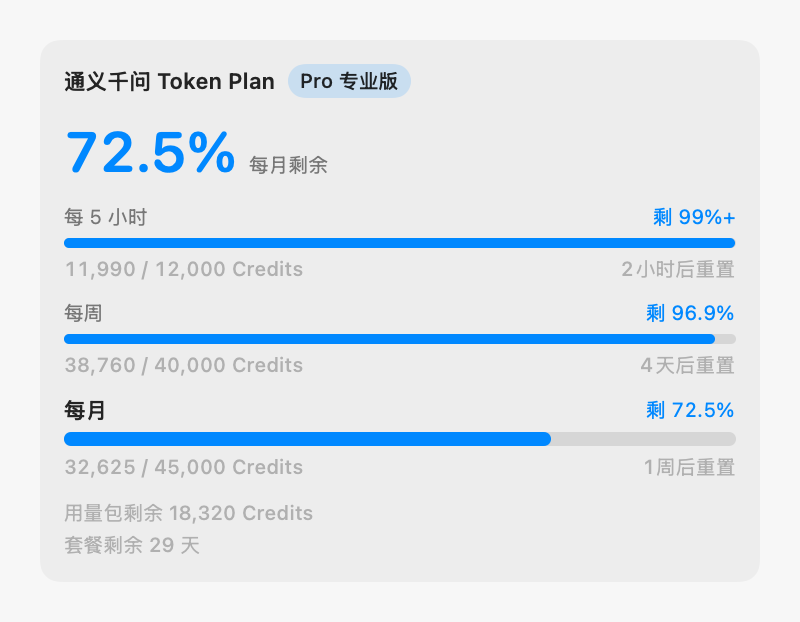
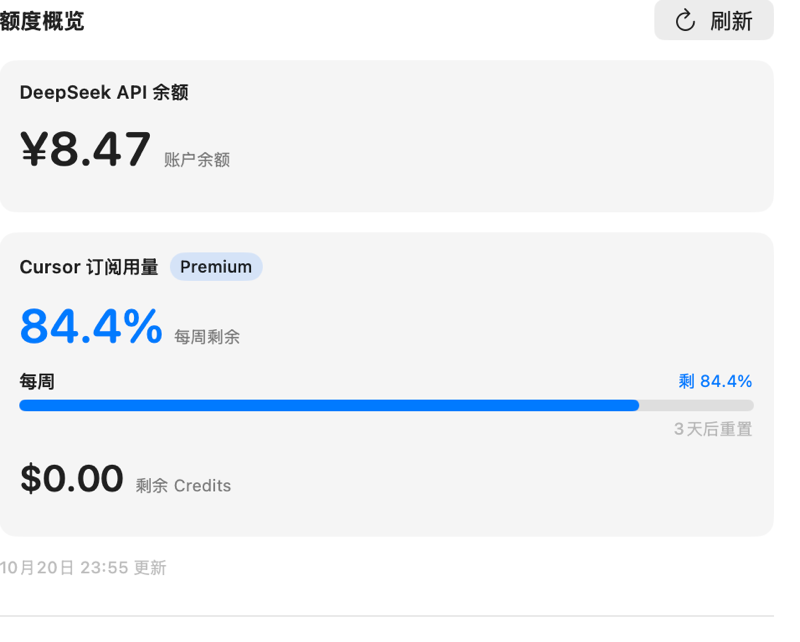
文档：用当前 DeepSeek / Cursor 实拍截图替换 README 预览图。

diff --git a/README.md b/README.md
@@ -8,18 +8,16 @@
 
 ## 界面预览
 
-桌面小组件的小、中两种形态（截图为示例数据；小尺寸显示单个来源，中尺寸并排显示多个；标题旁可显示套餐档次如 Premium）：
+桌面小组件中尺寸（截图为实拍；小尺寸显示单个来源，中尺寸并排多个；标题旁可显示套餐档次如 Premium）：
 
 <p align="center">
-  <img src="docs/images/widget-small-qwen.png" width="150" alt="小尺寸桌面小组件：通义千问的每月剩余额度">
-  <img src="docs/images/widget-small-deepseek.png" width="150" alt="小尺寸桌面小组件：DeepSeek 账户余额">
-  <img src="docs/images/widget-medium.png" width="320" alt="中尺寸桌面小组件：并排显示多个额度来源">
+  <img src="docs/images/widget-medium.png" width="360" alt="中尺寸桌面小组件：DeepSeek 账户余额与 Cursor 每周剩余">
 </p>
 
-主应用里的额度明细：
+主应用里的额度概览：
 
 <p align="center">
-  <img src="docs/images/app-card.png" width="400" alt="主应用的额度明细卡片">
+  <img src="docs/images/app-card.png" width="420" alt="主应用额度概览：DeepSeek 余额与 Cursor Premium 每周剩余">
 </p>
 
 ## 功能
